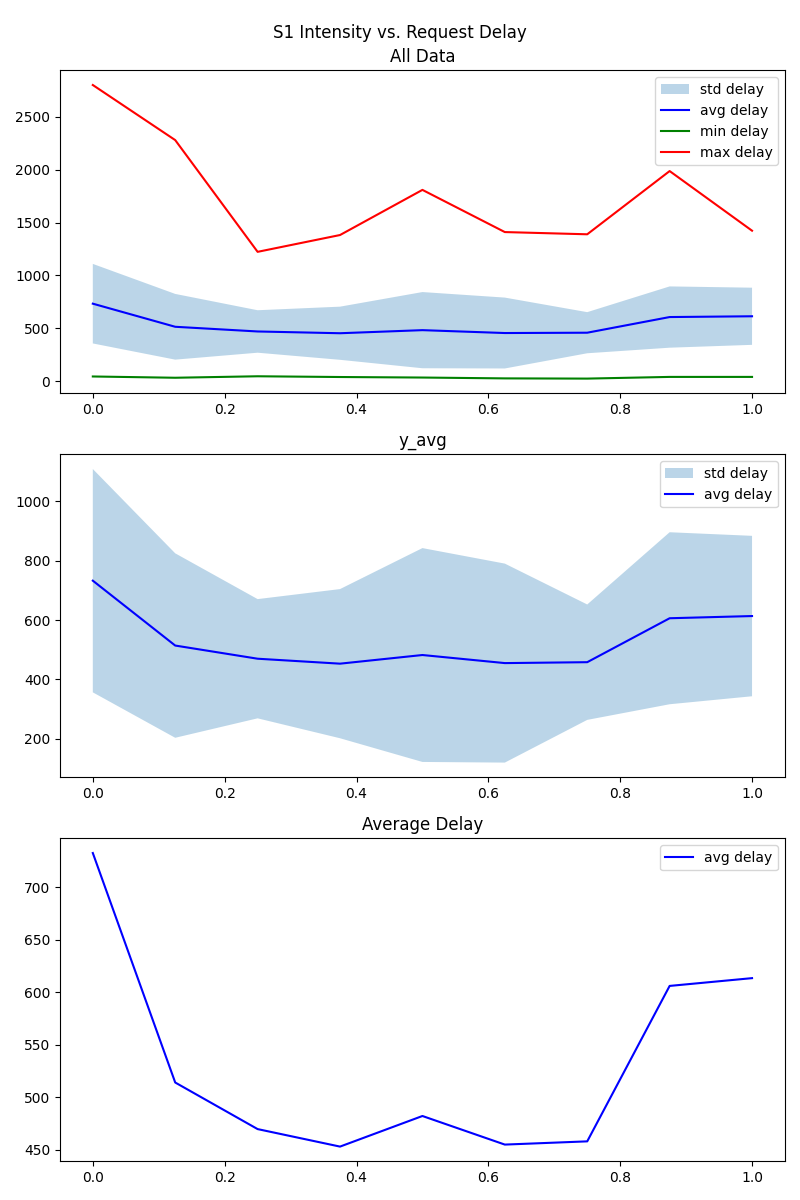
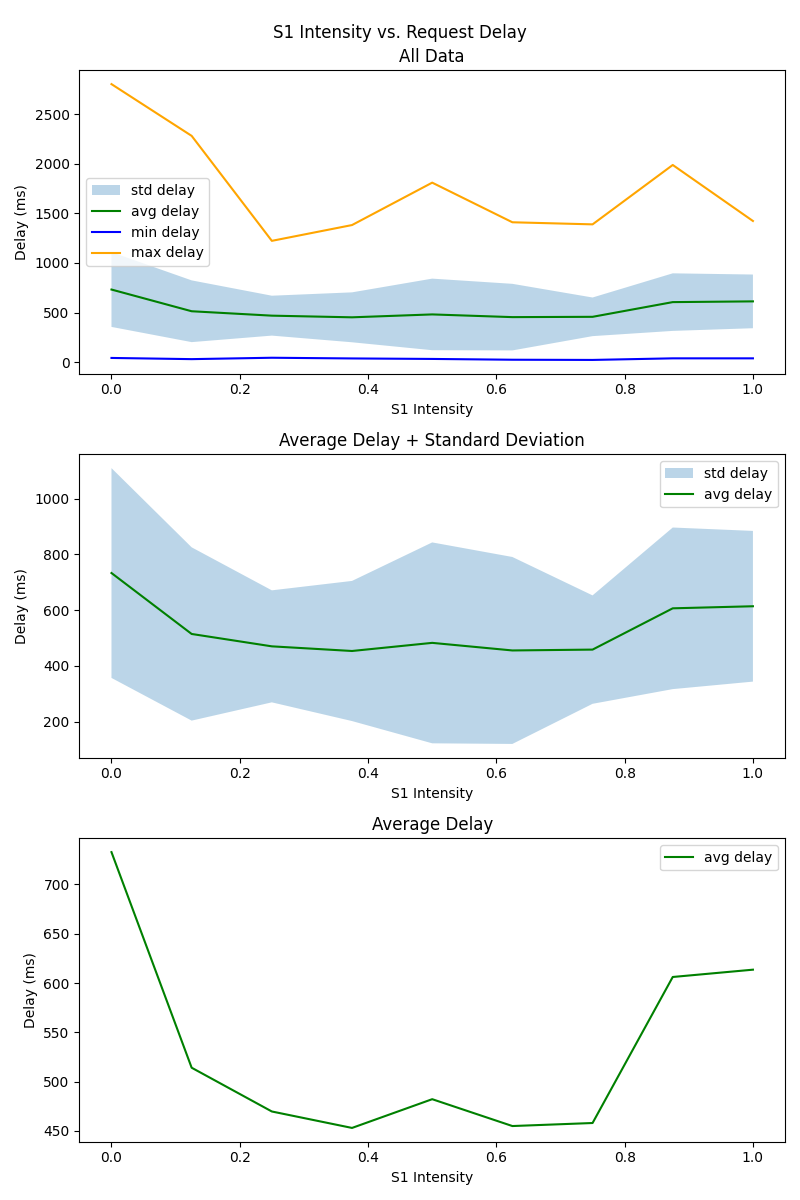
better figure

diff --git a/gssi_experiment/gateway_aggregator/service-intensity-experiment.py b/gssi_experiment/gateway_aggregator/service-intensity-experiment.py
@@ -93,21 +93,27 @@ def visualize_results(data: List[Tuple]):
 
     # First subplot with y_avg, y_min, and y_max lines, and filled area around y_avg
     axs[0].fill_between(s1_intensity, y_std_lower, y_std_upper, alpha=0.3, label='std delay')
-    axs[0].plot(s1_intensity, y_avg, label='avg delay', color='b')
-    axs[0].plot(s1_intensity, y_min, label='min delay', color='g')
-    axs[0].plot(s1_intensity, y_max, label='max delay', color='r')
+    axs[0].plot(s1_intensity, y_avg, label='avg delay', color='g')
+    axs[0].plot(s1_intensity, y_min, label='min delay', color='b')
+    axs[0].plot(s1_intensity, y_max, label='max delay', color='orange')
     axs[0].set_title('All Data')
+    axs[0].set_ylabel("Delay (ms)")
+    axs[0].set_xlabel("S1 Intensity")
     axs[0].legend()
 
     # Second subplot with only y_avg line and filled area around it
     axs[1].fill_between(s1_intensity, y_std_lower, y_std_upper, alpha=0.3, label='std delay')
-    axs[1].plot(s1_intensity, y_avg, label='avg delay', color='b')
-    axs[1].set_title('y_avg')
+    axs[1].plot(s1_intensity, y_avg, label='avg delay', color='g')
+    axs[1].set_title('Average Delay + Standard Deviation')
+    axs[1].set_ylabel("Delay (ms)")
+    axs[1].set_xlabel("S1 Intensity")
     axs[1].legend()
 
     # Third subplot with only y_avg line
-    axs[2].plot(s1_intensity, y_avg, label='avg delay', color='b')
+    axs[2].plot(s1_intensity, y_avg, label='avg delay', color='g')
     axs[2].set_title('Average Delay')
+    axs[2].set_ylabel("Delay (ms)")
+    axs[2].set_xlabel("S1 Intensity")
     axs[2].legend()
 
     # Add labels and title to the overall figure
